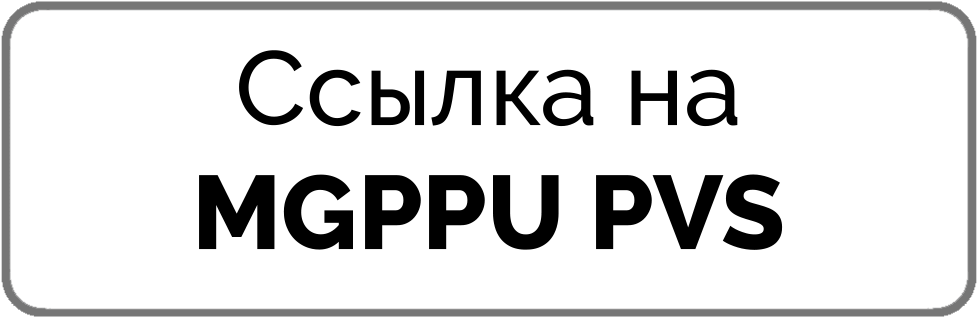
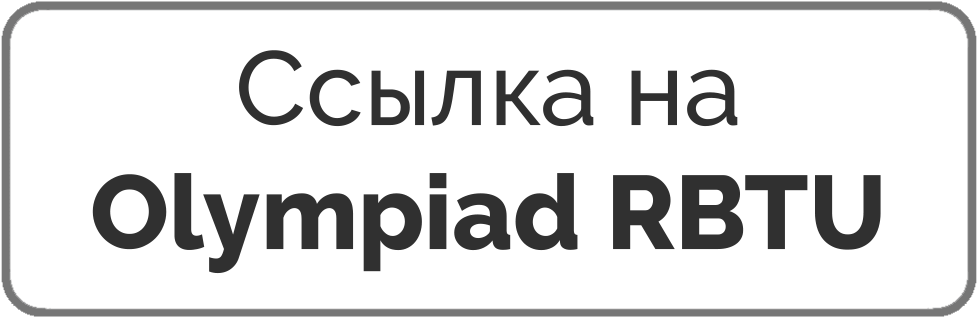
added image

Changed region(s): [[0.0921, 0.5394, 0.9212, 0.8801], [0.2456, 0.142, 0.6141, 0.3975], [0.6448, 0.1987, 0.7677, 0.3975]]

diff --git a/README.md b/README.md
@@ -7,12 +7,13 @@
 
 <p float="left">
 
-   <a href="https://olymp.rbtu-mgupp.ru/#/" width="128" /><img src="https://sun9-15.userapi.com/impg/3nhQmzaM4Cb7nptDd_4rT9Pi765CUgBpNpU26Q/TIQO-S46CjU.jpg?size=977x317&quality=96&sign=0b12b0a4dd25db8933d1d50e569f519b&type=album" width="128" /></a>
+   <a href="https://olymp.rbtu-mgupp.ru/#/" width="128" /><img src="https://github.com/NoshinDev/olympiad-rosbiotech/blob/main/assets/pvs%20link.png?raw=true" width="128" /></a>
 </p>
 
 # Скриншоты
 <p float="left">
-
+ <img src="https://github.com/NoshinDev/olympiad-rosbiotech/blob/main/assets/main.jpg?raw=true" width="350" />
+ <img src="https://github.com/NoshinDev/olympiad-rosbiotech/blob/main/assets/form.jpg?raw=true" width="350" />
 
  </p>
 
